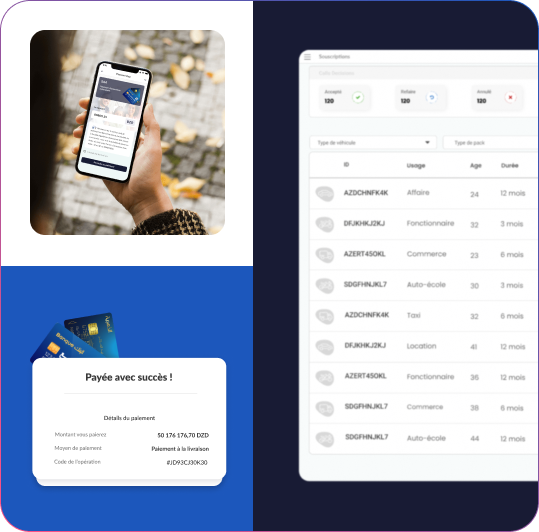
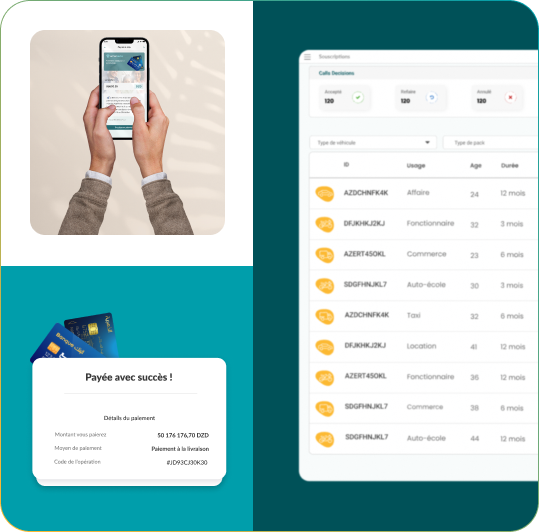
chore(whySaa): update style

diff --git a/components/WhySaa.vue b/components/WhySaa.vue
@@ -11,7 +11,7 @@ const cards = [
 
 <template>
   <section class="relative pb-10 pt-5 lg:pb-49 lg:pt-20">
-    <div class="absolute right-1/2 top-1/2 aspect-1 w-1/3 translate-x-full rounded-full bg-[#FC5185]/25 blur-300 -translate-y-1/2" />
+    <div class="absolute right-1/2 top-1/2 aspect-1 w-1/3 translate-x-full rounded-full bg-[#FCB932]/8 blur-300 -translate-y-1/2" />
 
     <div class="mx-auto px-6 container">
       <h2 class="text-center text-lg font-bold lg:text-4xl" v-html="t('title')" />
@@ -19,7 +19,7 @@ const cards = [
       <div class="mt-8 flex flex-col gap-8 lg:mt-43 lg:gap-52">
         <div
           v-for="i, idx in cards" :key="idx"
-          class="relative rounded-7 lg:flex lg:items-center lg:justify-between lg:bg-[#1C57BC]/10 lg:shadow-[0px_4px_25px_0px_#181B3412]"
+          class="relative rounded-7 lg:flex lg:items-center lg:justify-between lg:bg-[#FEF5E6] lg:shadow-[0px_4px_25px_0px_#181B3412]"
           :class="idx === 1 && 'flex-row-reverse'"
         >
           <div class="lg:mx-auto lg:max-w-1/2 lg:px-22 lg:py-17">
@@ -48,7 +48,7 @@ const cards = [
 
 <i18n lang="yaml">
 fr:
-  title: Pourquoi l’assurance <span class="text-[#1C57BC] bg-[#D9F3F4] pb-2 px-3 rounded-2xl">digitale SAA</span>
+  title: Pourquoi l’assurance <span class="text-[#FCB932] pb-2 px-3 rounded-2xl">digitale SAA</span>
   item1:
     title: Une transparence totale sur vos garanties et le coût de votre assurance.
     subtitle: Nous sommes convaincus que l'assurance ne doit plus être un sujet opaque. Avec SAA, tout est enfin clair et transparent. Fini les mauvaises surprises, nous vous aidons à comprendre très simplement vos garanties et le coût de votre assurance. C'est vous qui choisissez ce que vous couvrez ou ne couvrez pas.
